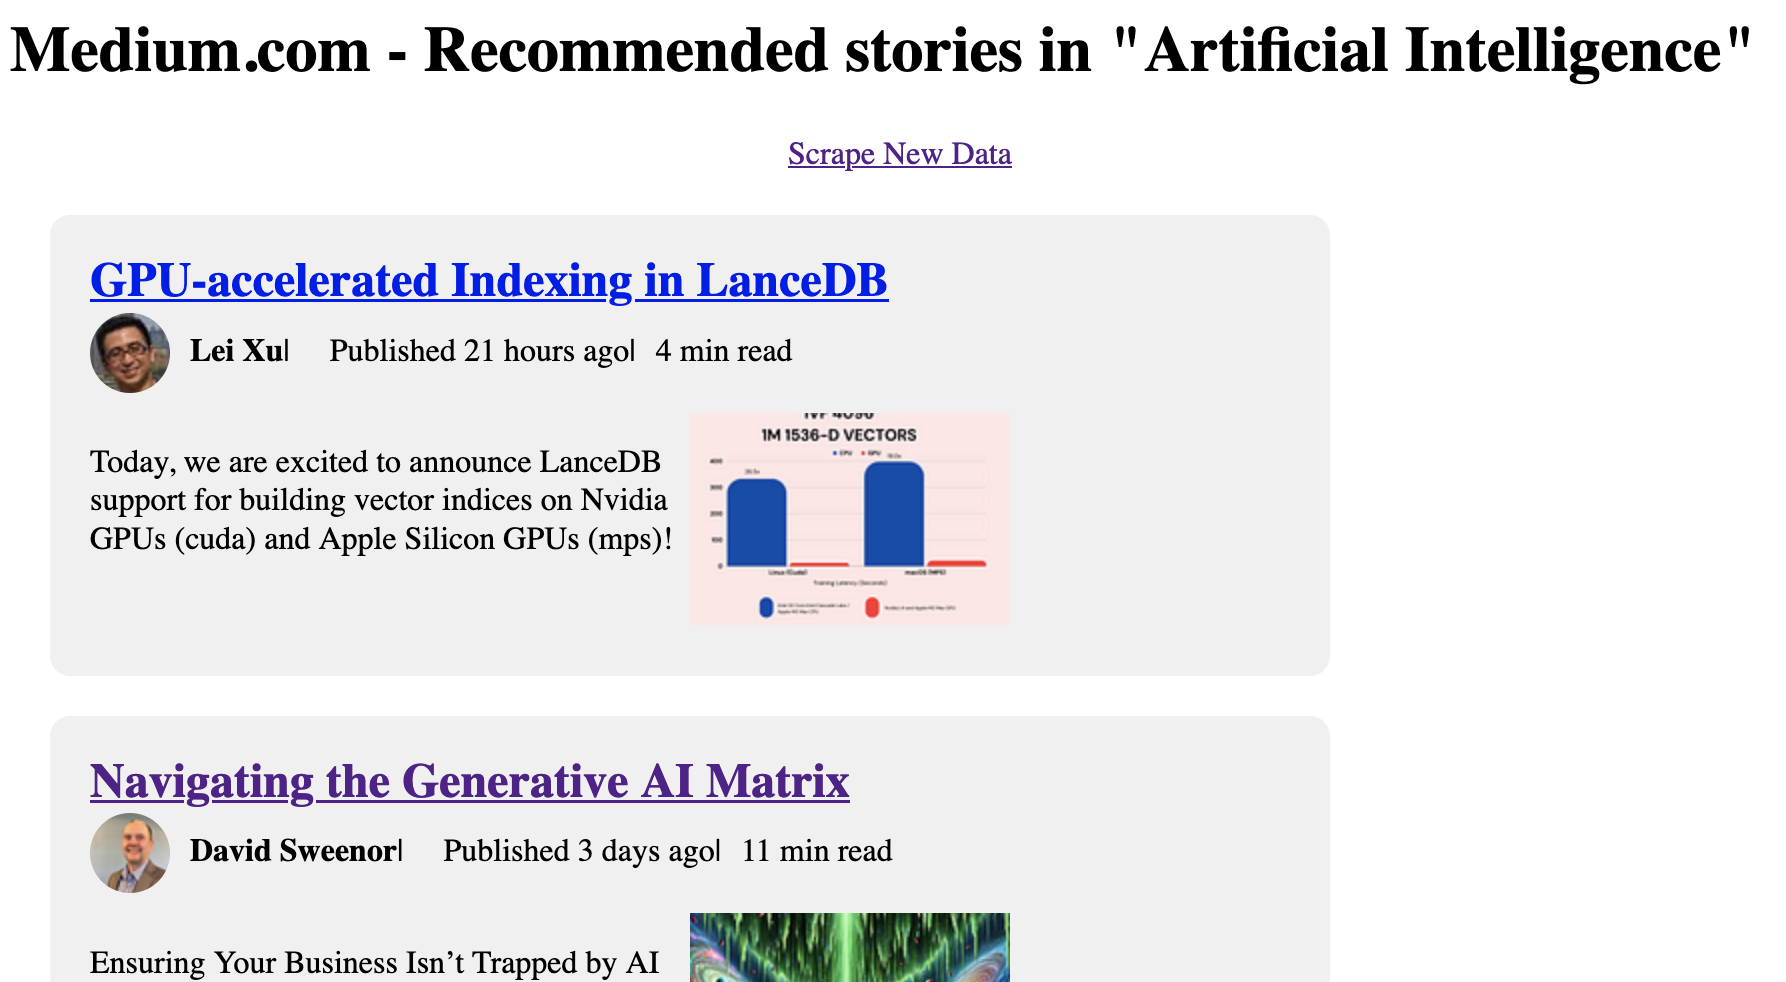
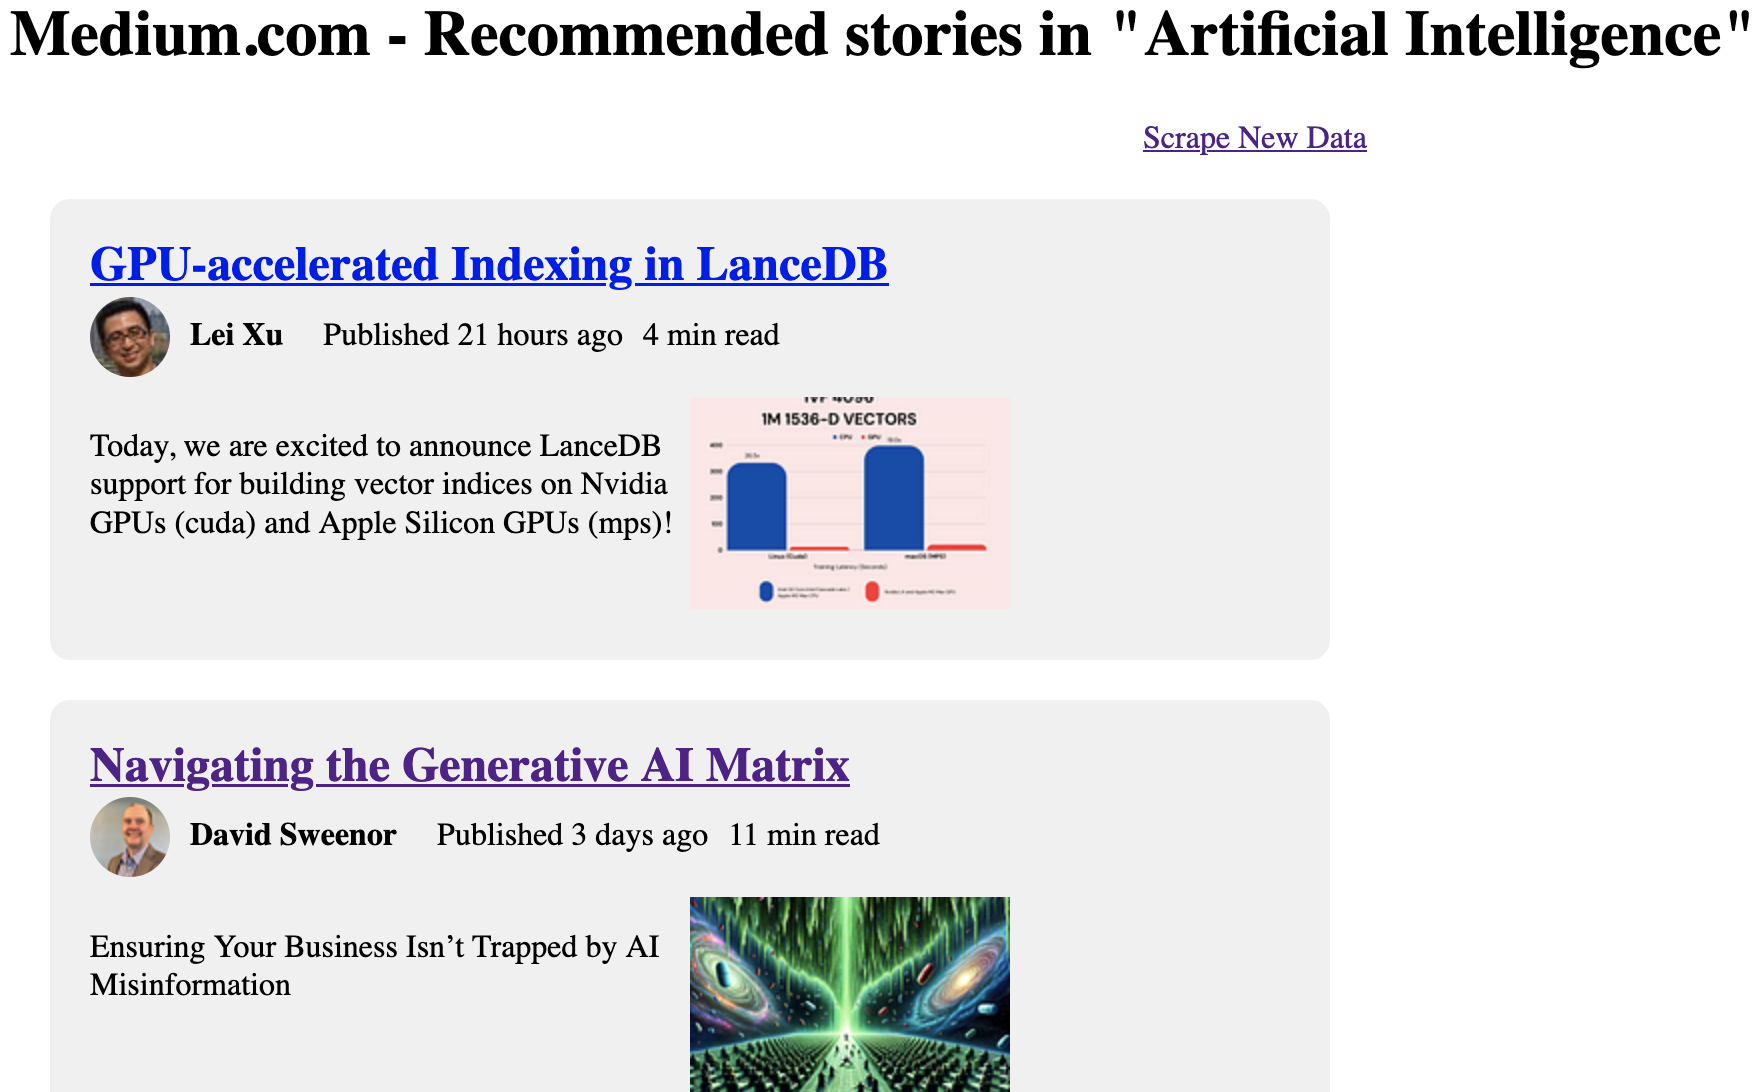
Update picture.png and index.html

diff --git a/src/templates/index.html b/src/templates/index.html
@@ -76,9 +76,7 @@
         <div class="author-info">
             <img class="author-image" src={{ article.photo }} alt="Author">
             <span class="author-name">{{ article.author }}</span>
-            <div> | </div> 
             <span class="publication-date">Published {{ article.date }}</span>
-            <div> | </div>  
             <span class="time-to-read">{{ article.min_read }} min read</span>
         </div>
         <div class="content">
